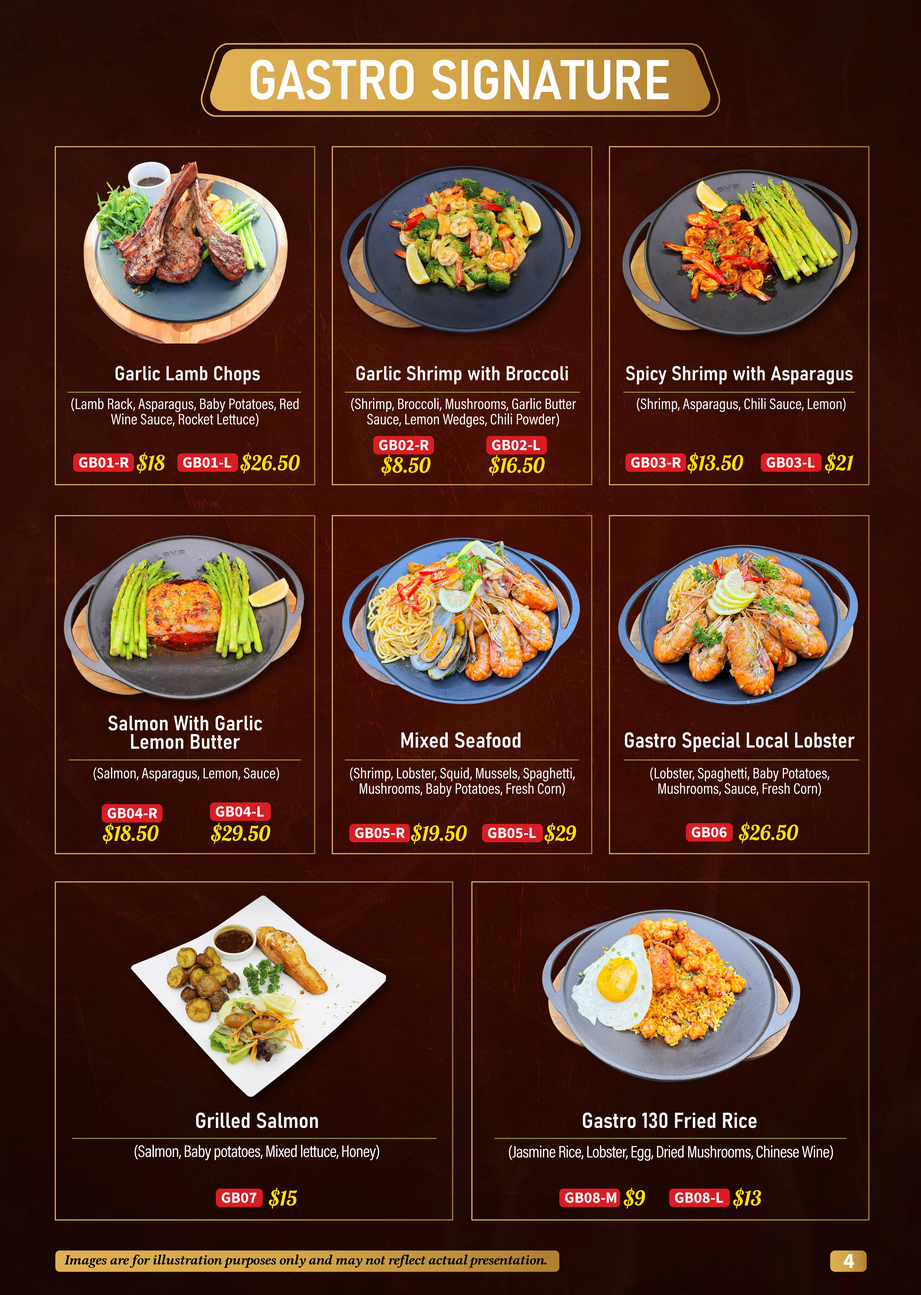
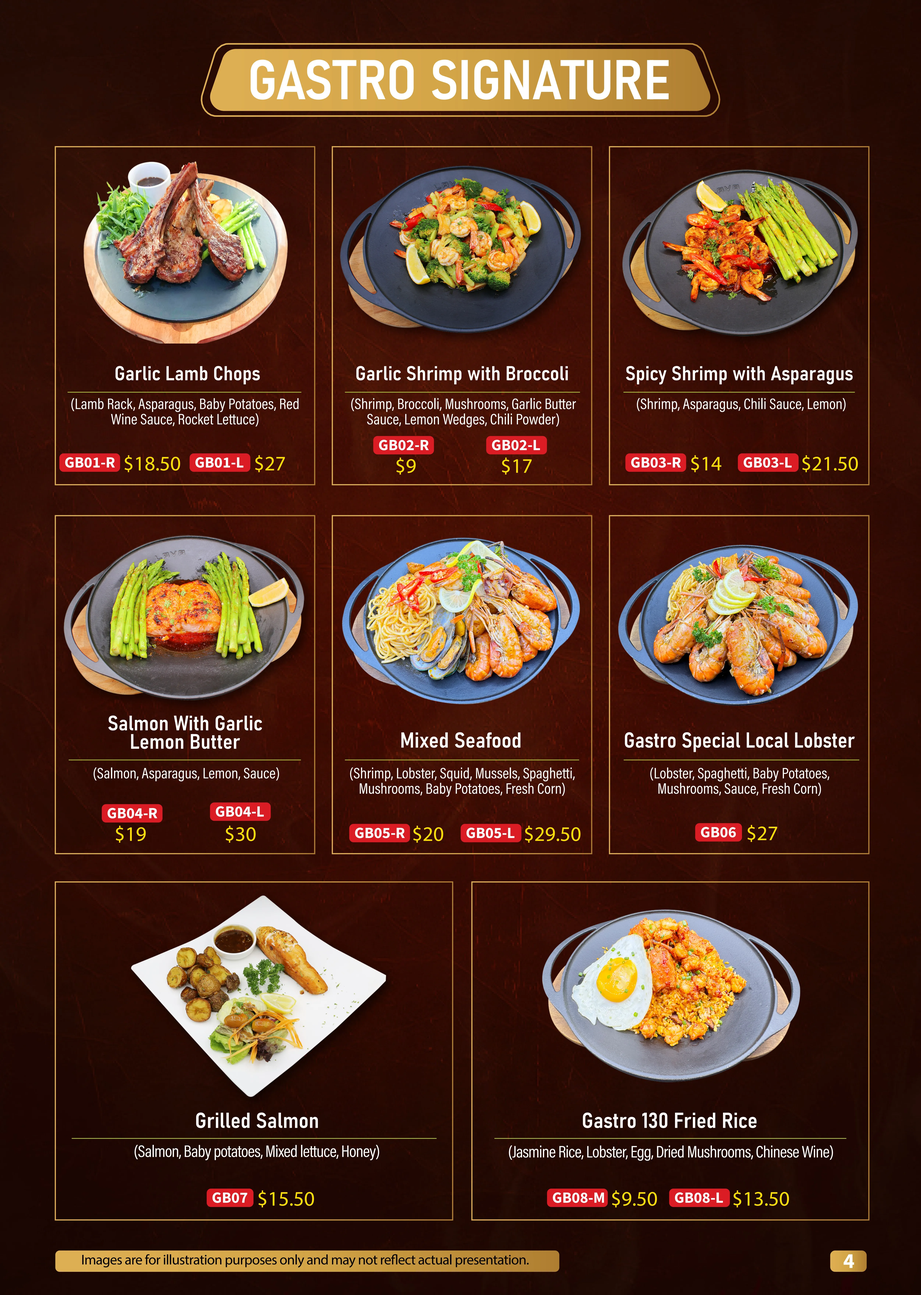
Update Price

diff --git a/index.html b/index.html
@@ -41,12 +41,12 @@
     <!-- Breakfast Section -->
     <div class="menu-image breakfast active">
       <img
-        src="images/breakfast-1.webp"
+        src="images/breakfast (1).webp"
         loading="eager"
         alt="Breakfast Menu 1"
       />
       <img
-        src="images/breakfast-2.webp"
+        src="images/breakfast (2).webp"
         loading="eager"
         alt="Breakfast Menu 2"
       />
@@ -55,7 +55,7 @@
     <!-- GASTRO Signature Section -->
     <div class="menu-image gastro-signature">
       <img
-        src="images/Gastro-Signature.webp"
+        src="images/gastro-signature.webp"
         loading="lazy"
         alt="GASTRO Signature Menu"
       />
@@ -64,22 +64,22 @@
     <!-- Appetizers Section -->
     <div class="menu-image appetizers">
       <img
-        src="images/snacks-1.webp"
+        src="images/snacks (1).webp"
         loading="lazy"
         alt="Snack & Appetizers Menu 1"
       />
       <img
-        src="images/snacks-2.webp"
+        src="images/snacks (2).webp"
         loading="lazy"
         alt="Snack & Appetizers Menu 2"
       />
       <img
-        src="images/appetizers-1.webp"
+        src="images/appetizers (1).webp"
         loading="lazy"
         alt="Snack & Appetizers Menu 3"
       />
       <img
-        src="images/appetizers-2.webp"
+        src="images/appetizers (2).webp"
         loading="lazy"
         alt="Snack & Appetizers Menu 4"
       />
@@ -88,12 +88,12 @@
     <!-- Salad Section -->
     <div class="menu-image salad">
       <img
-        src="images/salads-1.webp"
+        src="images/salads (1).webp"
         loading="lazy"
         alt="Salad Selection Menu 1"
       />
       <img
-        src="images/salads-2.webp"
+        src="images/salads (2).webp"
         loading="lazy"
         alt="Salad Selection Menu 2"
       />
@@ -102,12 +102,12 @@
     <!-- Japanese Selection Section -->
     <div class="menu-image japanese-selection">
       <img
-        src="images/japanese-selection-1.webp"
+        src="images/japanese-selection (1).webp"
         loading="lazy"
         alt="Japanese Selection Menu 1"
       />
       <img
-        src="images/japanese-selection-2.webp"
+        src="images/japanese-selection (2).webp"
         loading="lazy"
         alt="Japanese Selection Menu 2"
       />
@@ -116,23 +116,23 @@
     <!-- Burger-Pizza-Wrap Section -->
     <div class="menu-image burger">
       <img
-        src="images/Burgers.webp"
+        src="images/burger-pizza-wrap (1).webp"
         loading="lazy"
         alt="Burger Selection Menu"
       />
 
       <img
-        src="images/Wrap-Sandwiches-toasts.webp"
+        src="images/burger-pizza-wrap (2).webp"
         loading="lazy"
         alt="Wrap-Sandwich-Toasts Menu"
       />
       <img
-        src="images/pizza-1.webp"
+        src="images/burger-pizza-wrap (3).webp"
         loading="lazy"
         alt="Pizza Selection Menu 1"
       />
       <img
-        src="images/pizza-2.webp"
+        src="images/burger-pizza-wrap (4).webp"
         loading="lazy"
         alt="Pizza Selection Menu 2"
       />
@@ -140,60 +140,60 @@
 
     <!-- Pastas Section -->
     <div class="menu-image pastas">
-      <img src="images/pastas-1.webp" loading="lazy" alt="Pasta Menu 1" />
-      <img src="images/pastas-2.webp" loading="lazy" alt="Pasta Menu 2" />
+      <img src="images/pasta (1).webp" loading="lazy" alt="Pasta Menu 1" />
+      <img src="images/pasta (2).webp" loading="lazy" alt="Pasta Menu 2" />
     </div>
 
     <!-- Steak Section -->
     <div class="menu-image steak">
-      <img src="images/Steaks.webp" loading="lazy" alt="Steak Selection Menu" />
+      <img src="images/steak.webp" loading="lazy" alt="Steak Selection Menu" />
     </div>
 
     <!-- Soups Section -->
     <div class="menu-image soups">
-      <img src="images/Soups.webp" loading="lazy" alt="Soups Menu" />
+      <img src="images/soup.webp" loading="lazy" alt="Soups Menu" />
     </div>
 
     <!-- Main Courses Section -->
     <div class="menu-image main-courses">
       <img
-        src="images/main-courses-1.webp"
+        src="images/asian-main-course (1).webp"
         loading="lazy"
         alt="Main Courses Menu 1"
       />
       <img
-        src="images/main-courses-2.webp"
+        src="images/asian-main-course (2).webp"
         loading="lazy"
         alt="Main Courses Menu 2"
       />
 
       <img
-        src="images/asian-main-courses-1.webp"
+        src="images/asian-main-courses (3).webp"
         loading="lazy"
         alt="Asian Main Courses Menu 1"
       />
       <img
-        src="images/asian-main-courses-2.webp"
+        src="images/asian-main-course (4).webp"
         loading="lazy"
         alt="Asian Main Courses Menu 2"
       />
       <img
-        src="images/asian-main-courses-3.webp"
+        src="images/asian-main-course (5).webp"
         loading="lazy"
         alt="Asian Main Courses Menu 3"
       />
       <img
-        src="images/asian-main-courses-4.webp"
+        src="images/asian-main-course (6).webp"
         loading="lazy"
         alt="Asian Main Courses Menu 4"
       />
       <img
-        src="images/asian-main-courses-5.webp"
+        src="images/asian-main-course (7).webp"
         loading="lazy"
         alt="Asian Main Courses Menu 5"
       />
       <img
-        src="images/Asian-cuisin-side-dishes.webp"
+        src="images/asian-main-course (8).webp"
         loading="lazy"
         alt="Asian Side Dishes"
       />
@@ -206,15 +206,15 @@
 
     <!-- Promotion Section -->
     <div class="menu-image promotion">
-      <img src="images/happy-hour.webp" loading="lazy" alt="Happy Hour" />
-      <img src="images/lady-night.webp" loading="lazy" alt="Lady Night" />
+      <img src="images/promotions (1).webp" loading="lazy" alt="Happy Hour" />
+      <img src="images/promotions (2).webp" loading="lazy" alt="Lady Night" />
       <img
-        src="images/cocktails-night.webp"
+        src="images/promotions (3).webp"
         loading="lazy"
         alt="Cocktail Night"
       />
       <img
-        src="images/chicken-beer-set-HP.webp"
+        src="images/promotions (4).webp"
         loading="lazy"
         alt="Chicken and Beer HP"
       />
@@ -223,26 +223,26 @@
     <!-- Drinks Section -->
     <div class="menu-image drinks">
       <img
-        src="images/drink-menu-cover.webp"
+        src="images/Drinks-cover.jpg"
         loading="lazy"
         alt="Drinks Menu Cover"
       />
-      <img src="images/drink-1.webp" loading="lazy" alt="Drinks Menu 1" />
-      <img src="images/drink-2.webp" loading="lazy" alt="Drinks Menu 2" />
-      <img src="images/drink-3.webp" loading="lazy" alt="Drinks Menu 3" />
-      <img src="images/drink-4.webp" loading="lazy" alt="Drinks Menu 4" />
-      <img src="images/drink-5.webp" loading="lazy" alt="Drinks Menu 5" />
-      <img src="images/drink-6.webp" loading="lazy" alt="Drinks Menu 6" />
-      <img src="images/drink-7.webp" loading="lazy" alt="Drinks Menu 7" />
-      <img src="images/drink-8.webp" loading="lazy" alt="Drinks Menu 8" />
-      <img src="images/drink-9.webp" loading="lazy" alt="Drinks Menu 9" />
-      <img src="images/drink-10.webp" loading="lazy" alt="Drinks Menu 10" />
-      <img src="images/drink-11.webp" loading="lazy" alt="Drinks Menu 11" />
-      <img src="images/drink-12.webp" loading="lazy" alt="Drinks Menu 12" />
-      <img src="images/drink-13.webp" loading="lazy" alt="Drinks Menu 13" />
-      <img src="images/drink-14.webp" loading="lazy" alt="Drinks Menu 14" />
-      <img src="images/drink-15.webp" loading="lazy" alt="Drinks Menu 15" />
-      <img src="images/drink-16.webp" loading="lazy" alt="Drinks Menu 16" />
+      <img src="images/drinks (2).webp" loading="lazy" alt="Drinks Menu 1" />
+      <img src="images/drinks (3).webp" loading="lazy" alt="Drinks Menu 2" />
+      <img src="images/drinks (4).webp" loading="lazy" alt="Drinks Menu 3" />
+      <img src="images/drinks (5).webp" loading="lazy" alt="Drinks Menu 4" />
+      <img src="images/drinks (6).webp" loading="lazy" alt="Drinks Menu 5" />
+      <img src="images/drinks (7).webp" loading="lazy" alt="Drinks Menu 6" />
+      <img src="images/drinks (8).webp" loading="lazy" alt="Drinks Menu 7" />
+      <img src="images/drinks (9).webp" loading="lazy" alt="Drinks Menu 8" />
+      <img src="images/drinks (10).webp" loading="lazy" alt="Drinks Menu 9" />
+      <img src="images/drinks (11).webp" loading="lazy" alt="Drinks Menu 10" />
+      <img src="images/drinks (12).webp" loading="lazy" alt="Drinks Menu 11" />
+      <img src="images/drinks (13).webp" loading="lazy" alt="Drinks Menu 12" />
+      <img src="images/drinks (14).webp" loading="lazy" alt="Drinks Menu 13" />
+      <img src="images/drinks (15).webp" loading="lazy" alt="Drinks Menu 14" />
+      <img src="images/drinks (16).webp" loading="lazy" alt="Drinks Menu 15" />
+      <img src="images/drinks (17).webp" loading="lazy" alt="Drinks Menu 16" />
     </div>
 
     <!-- Ended -->
